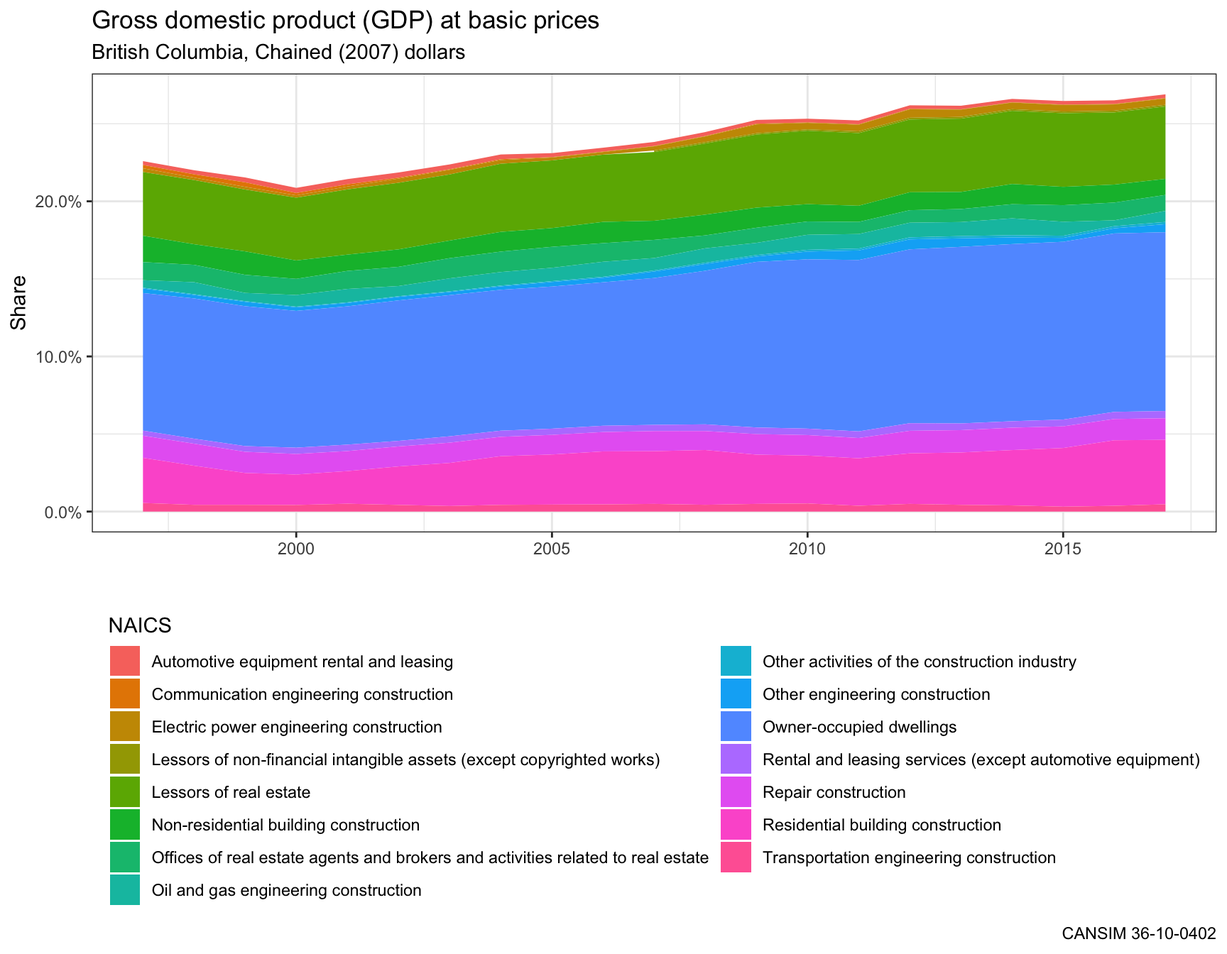
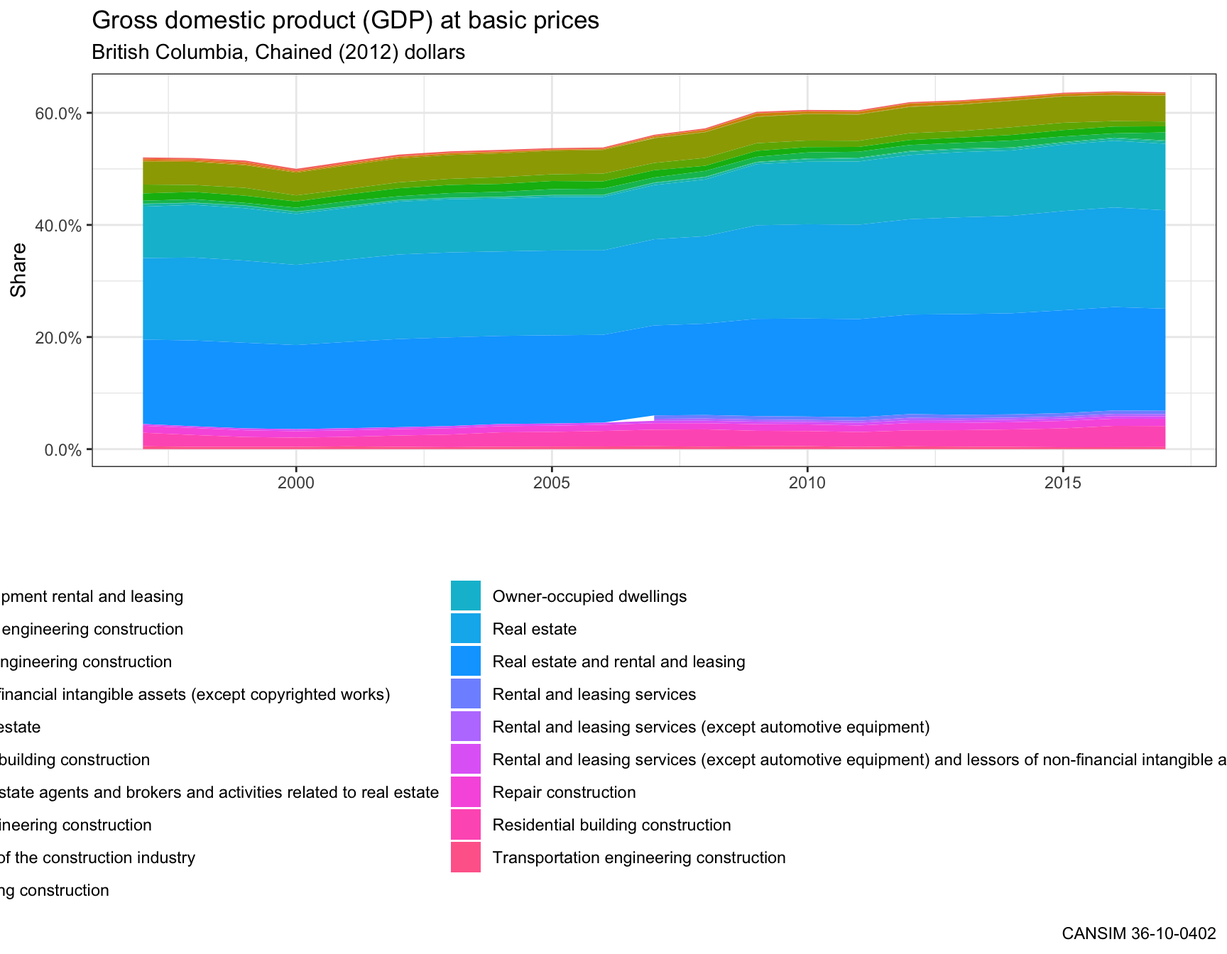
fix vignette to adapt to statcan switching base year for chained dollars

diff --git a/docs/articles/cansim.html b/docs/articles/cansim.html
@@ -97,7 +97,7 @@
     <div class="page-header toc-ignore">
       <h1>Getting started with the cansim package</h1>
             
-            <h4 class="date">2018-11-05</h4>
+            <h4 class="date">2018-11-15</h4>
       
       <small class="dont-index">Source: <a href="https://github.com/mountainMath/cansim/blob/master/vignettes/cansim.Rmd"><code>vignettes/cansim.Rmd</code></a></small>
       <div class="hidden name"><code>cansim.Rmd</code></div>
@@ -125,7 +125,7 @@
 <a href="#usage" class="anchor"></a>Usage</h3>
 <p>If you know the data table catalogue number you are interested in, use <code>get_cansim</code> to download the entire table.</p>
 <div class="sourceCode" id="cb2"><pre class="sourceCode r"><code class="sourceCode r"><a class="sourceLine" id="cb2-1" data-line-number="1">data &lt;-<span class="st"> </span><span class="kw"><a href="../reference/get_cansim.html">get_cansim</a></span>(<span class="st">"14-10-0293"</span>)</a>
-<a class="sourceLine" id="cb2-2" data-line-number="2"><span class="co">#&gt; Accessing CANSIM NDM product 14-10-0293</span></a>
+<a class="sourceLine" id="cb2-2" data-line-number="2"><span class="co">#&gt; Accessing CANSIM NDM product 14-10-0293 from Statistics Canada</span></a>
 <a class="sourceLine" id="cb2-3" data-line-number="3"><span class="co">#&gt; Parsing data</span></a>
 <a class="sourceLine" id="cb2-4" data-line-number="4"><span class="co">#&gt; Folding in metadata</span></a>
 <a class="sourceLine" id="cb2-5" data-line-number="5"><span class="kw">head</span>(data)</a>
@@ -156,7 +156,7 @@
 <a class="sourceLine" id="cb3-9" data-line-number="9"><span class="co">#&gt;     intersect, setdiff, setequal, union</span></a>
 <a class="sourceLine" id="cb3-10" data-line-number="10">data &lt;-<span class="st"> </span><span class="kw"><a href="../reference/get_cansim.html">get_cansim</a></span>(<span class="st">"14-10-0293"</span>) <span class="op">%&gt;%</span><span class="st"> </span></a>
 <a class="sourceLine" id="cb3-11" data-line-number="11"><span class="st">  </span>normalize_cansim_values</a>
-<a class="sourceLine" id="cb3-12" data-line-number="12"><span class="co">#&gt; Accessing CANSIM NDM product 14-10-0293</span></a>
+<a class="sourceLine" id="cb3-12" data-line-number="12"><span class="co">#&gt; Reading CANSIM NDM product 14-10-0293 from cache.</span></a>
 <a class="sourceLine" id="cb3-13" data-line-number="13"><span class="kw">head</span>(data)</a>
 <a class="sourceLine" id="cb3-14" data-line-number="14"><span class="co">#&gt; # A tibble: 6 x 20</span></a>
 <a class="sourceLine" id="cb3-15" data-line-number="15"><span class="co">#&gt;   REF_DATE GEO   DGUID `Labour force c… Statistics UOM   UOM_ID VECTOR</span></a>
@@ -189,26 +189,22 @@
 <a class="sourceLine" id="cb4-13" data-line-number="13"><span class="co">#&gt; Estimate, Standard error of estimate, Standard error of year-over-year change</span></a></code></pre></div>
 <p>When a table number is unknown, you can browse the available tables or search by survey name, keyword or title.</p>
 <div class="sourceCode" id="cb5"><pre class="sourceCode r"><code class="sourceCode r"><a class="sourceLine" id="cb5-1" data-line-number="1"><span class="kw"><a href="../reference/search_cansim_tables.html">search_cansim_tables</a></span>(<span class="st">"housing price indexes"</span>)</a>
-<a class="sourceLine" id="cb5-2" data-line-number="2"><span class="co">#&gt; Your CANSIM table overview data is 36 days old.</span></a>
-<a class="sourceLine" id="cb5-3" data-line-number="3"><span class="co">#&gt; Consider setting options(cache_path="your cache path")</span></a>
-<a class="sourceLine" id="cb5-4" data-line-number="4"><span class="co">#&gt; in your .Rprofile and refreshing the table via list_cansim_tables(refresh=TRUE).</span></a>
-<a class="sourceLine" id="cb5-5" data-line-number="5"><span class="co">#&gt; The table won't be able to refresh if options(cache_path="your cache path") is not set.</span></a>
-<a class="sourceLine" id="cb5-6" data-line-number="6"><span class="co">#&gt; # A tibble: 8 x 21</span></a>
-<a class="sourceLine" id="cb5-7" data-line-number="7"><span class="co">#&gt;   title title_en title_fr keywords_en keywords keywords_fr notes notes_en</span></a>
-<a class="sourceLine" id="cb5-8" data-line-number="8"><span class="co">#&gt;   &lt;chr&gt; &lt;chr&gt;    &lt;chr&gt;    &lt;chr&gt;       &lt;chr&gt;    &lt;chr&gt;       &lt;chr&gt; &lt;chr&gt;   </span></a>
-<a class="sourceLine" id="cb5-9" data-line-number="9"><span class="co">#&gt; 1 New … New hou… Indice … constructi… constru… constructi… &lt;p&gt;N… &lt;p&gt;New …</span></a>
-<a class="sourceLine" id="cb5-10" data-line-number="10"><span class="co">#&gt; 2 New … New hou… Indice … constructi… constru… constructi… &lt;p&gt;N… &lt;p&gt;New …</span></a>
-<a class="sourceLine" id="cb5-11" data-line-number="11"><span class="co">#&gt; 3 Non-… Non-res… Indice … constructi… constru… constructi… &lt;p&gt;A… &lt;p&gt;Arch…</span></a>
-<a class="sourceLine" id="cb5-12" data-line-number="12"><span class="co">#&gt; 4 Pric… Price i… Indices… constructi… constru… constructi… This… This ta…</span></a>
-<a class="sourceLine" id="cb5-13" data-line-number="13"><span class="co">#&gt; 5 Pric… Price i… Indices… constructi… constru… constructi… &lt;p&gt;T… &lt;p&gt;This…</span></a>
-<a class="sourceLine" id="cb5-14" data-line-number="14"><span class="co">#&gt; 6 New … New hou… Indices… constructi… constru… constructi… This… This ta…</span></a>
-<a class="sourceLine" id="cb5-15" data-line-number="15"><span class="co">#&gt; 7 New … New hou… Indices… constructi… constru… constructi… This… This ta…</span></a>
-<a class="sourceLine" id="cb5-16" data-line-number="16"><span class="co">#&gt; 8 New … New hou… Indice … constructi… constru… constructi… Mont… Monthly…</span></a>
-<a class="sourceLine" id="cb5-17" data-line-number="17"><span class="co">#&gt; # ... with 13 more variables: notes_fr &lt;chr&gt;, state &lt;chr&gt;, subject &lt;chr&gt;,</span></a>
-<a class="sourceLine" id="cb5-18" data-line-number="18"><span class="co">#&gt; #   date_published &lt;chr&gt;, frequency &lt;chr&gt;, revision_id &lt;chr&gt;,</span></a>
-<a class="sourceLine" id="cb5-19" data-line-number="19"><span class="co">#&gt; #   time_period_coverage_start &lt;chr&gt;, time_period_coverage_end &lt;chr&gt;,</span></a>
-<a class="sourceLine" id="cb5-20" data-line-number="20"><span class="co">#&gt; #   metadata_created &lt;chr&gt;, metadata_modified &lt;chr&gt;, url_en &lt;chr&gt;,</span></a>
-<a class="sourceLine" id="cb5-21" data-line-number="21"><span class="co">#&gt; #   url_fr &lt;chr&gt;, cansim_table_number &lt;chr&gt;</span></a></code></pre></div>
+<a class="sourceLine" id="cb5-2" data-line-number="2"><span class="co">#&gt; # A tibble: 8 x 21</span></a>
+<a class="sourceLine" id="cb5-3" data-line-number="3"><span class="co">#&gt;   title title_en title_fr keywords_en keywords keywords_fr notes notes_en</span></a>
+<a class="sourceLine" id="cb5-4" data-line-number="4"><span class="co">#&gt;   &lt;chr&gt; &lt;chr&gt;    &lt;chr&gt;    &lt;chr&gt;       &lt;chr&gt;    &lt;chr&gt;       &lt;chr&gt; &lt;chr&gt;   </span></a>
+<a class="sourceLine" id="cb5-5" data-line-number="5"><span class="co">#&gt; 1 New … New hou… Indice … constructi… constru… constructi… &lt;p&gt;N… &lt;p&gt;New …</span></a>
+<a class="sourceLine" id="cb5-6" data-line-number="6"><span class="co">#&gt; 2 New … New hou… Indice … constructi… constru… constructi… &lt;p&gt;N… &lt;p&gt;New …</span></a>
+<a class="sourceLine" id="cb5-7" data-line-number="7"><span class="co">#&gt; 3 Non-… Non-res… Indice … constructi… constru… constructi… &lt;p&gt;A… &lt;p&gt;Arch…</span></a>
+<a class="sourceLine" id="cb5-8" data-line-number="8"><span class="co">#&gt; 4 Pric… Price i… Indices… constructi… constru… constructi… This… This ta…</span></a>
+<a class="sourceLine" id="cb5-9" data-line-number="9"><span class="co">#&gt; 5 Pric… Price i… Indices… constructi… constru… constructi… &lt;p&gt;T… &lt;p&gt;This…</span></a>
+<a class="sourceLine" id="cb5-10" data-line-number="10"><span class="co">#&gt; 6 New … New hou… Indices… constructi… constru… constructi… This… This ta…</span></a>
+<a class="sourceLine" id="cb5-11" data-line-number="11"><span class="co">#&gt; 7 New … New hou… Indices… constructi… constru… constructi… This… This ta…</span></a>
+<a class="sourceLine" id="cb5-12" data-line-number="12"><span class="co">#&gt; 8 New … New hou… Indice … constructi… constru… constructi… Mont… Monthly…</span></a>
+<a class="sourceLine" id="cb5-13" data-line-number="13"><span class="co">#&gt; # ... with 13 more variables: notes_fr &lt;chr&gt;, state &lt;chr&gt;, subject &lt;chr&gt;,</span></a>
+<a class="sourceLine" id="cb5-14" data-line-number="14"><span class="co">#&gt; #   date_published &lt;chr&gt;, frequency &lt;chr&gt;, revision_id &lt;chr&gt;,</span></a>
+<a class="sourceLine" id="cb5-15" data-line-number="15"><span class="co">#&gt; #   time_period_coverage_start &lt;chr&gt;, time_period_coverage_end &lt;chr&gt;,</span></a>
+<a class="sourceLine" id="cb5-16" data-line-number="16"><span class="co">#&gt; #   metadata_created &lt;chr&gt;, metadata_modified &lt;chr&gt;, url_en &lt;chr&gt;,</span></a>
+<a class="sourceLine" id="cb5-17" data-line-number="17"><span class="co">#&gt; #   url_fr &lt;chr&gt;, cansim_table_number &lt;chr&gt;</span></a></code></pre></div>
 <p>Individual series in Statistics Canada data tables can also be accessed by using individual numbered vectors. This is especially useful when building reports using specific indicators. For convenience, the <code>cansim</code> package allows users to specify named vectors, where the <code>label</code> field will be added to the returned data frame containing the specified name for each vector.</p>
 <div class="sourceCode" id="cb6"><pre class="sourceCode r"><code class="sourceCode r"><a class="sourceLine" id="cb6-1" data-line-number="1"><span class="kw"><a href="../reference/get_cansim_vector.html">get_cansim_vector</a></span>(<span class="kw">c</span>(<span class="st">"Metro Van Apartment Construction Price Index"</span>=<span class="st">"v44176267"</span>,</a>
 <a class="sourceLine" id="cb6-2" data-line-number="2">                    <span class="st">"Metro Van CPI"</span>=<span class="st">"v41692930"</span>),</a>

diff --git a/docs/articles/listing_cansim_tables.html b/docs/articles/listing_cansim_tables.html
@@ -97,7 +97,7 @@
     <div class="page-header toc-ignore">
       <h1>Listing Statistics Canada data tables</h1>
             
-            <h4 class="date">2018-11-05</h4>
+            <h4 class="date">2018-11-15</h4>
       
       <small class="dont-index">Source: <a href="https://github.com/mountainMath/cansim/blob/master/vignettes/listing_cansim_tables.Rmd"><code>vignettes/listing_cansim_tables.Rmd</code></a></small>
       <div class="hidden name"><code>listing_cansim_tables.Rmd</code></div>
@@ -119,21 +119,17 @@
 <div class="sourceCode" id="cb1"><pre class="sourceCode r"><code class="sourceCode r"><a class="sourceLine" id="cb1-1" data-line-number="1"><span class="kw">library</span>(cansim)</a>
 <a class="sourceLine" id="cb1-2" data-line-number="2"></a>
 <a class="sourceLine" id="cb1-3" data-line-number="3"><span class="kw">names</span>(<span class="kw"><a href="../reference/list_cansim_tables.html">list_cansim_tables</a></span>())</a>
-<a class="sourceLine" id="cb1-4" data-line-number="4"><span class="co">#&gt; Your CANSIM table overview data is 36 days old.</span></a>
-<a class="sourceLine" id="cb1-5" data-line-number="5"><span class="co">#&gt; Consider setting options(cache_path="your cache path")</span></a>
-<a class="sourceLine" id="cb1-6" data-line-number="6"><span class="co">#&gt; in your .Rprofile and refreshing the table via list_cansim_tables(refresh=TRUE).</span></a>
-<a class="sourceLine" id="cb1-7" data-line-number="7"><span class="co">#&gt; The table won't be able to refresh if options(cache_path="your cache path") is not set.</span></a>
-<a class="sourceLine" id="cb1-8" data-line-number="8"><span class="co">#&gt;  [1] "title"                      "title_en"                  </span></a>
-<a class="sourceLine" id="cb1-9" data-line-number="9"><span class="co">#&gt;  [3] "title_fr"                   "keywords_en"               </span></a>
-<a class="sourceLine" id="cb1-10" data-line-number="10"><span class="co">#&gt;  [5] "keywords"                   "keywords_fr"               </span></a>
-<a class="sourceLine" id="cb1-11" data-line-number="11"><span class="co">#&gt;  [7] "notes"                      "notes_en"                  </span></a>
-<a class="sourceLine" id="cb1-12" data-line-number="12"><span class="co">#&gt;  [9] "notes_fr"                   "state"                     </span></a>
-<a class="sourceLine" id="cb1-13" data-line-number="13"><span class="co">#&gt; [11] "subject"                    "date_published"            </span></a>
-<a class="sourceLine" id="cb1-14" data-line-number="14"><span class="co">#&gt; [13] "frequency"                  "revision_id"               </span></a>
-<a class="sourceLine" id="cb1-15" data-line-number="15"><span class="co">#&gt; [15] "time_period_coverage_start" "time_period_coverage_end"  </span></a>
-<a class="sourceLine" id="cb1-16" data-line-number="16"><span class="co">#&gt; [17] "metadata_created"           "metadata_modified"         </span></a>
-<a class="sourceLine" id="cb1-17" data-line-number="17"><span class="co">#&gt; [19] "url_en"                     "url_fr"                    </span></a>
-<a class="sourceLine" id="cb1-18" data-line-number="18"><span class="co">#&gt; [21] "cansim_table_number"</span></a></code></pre></div>
+<a class="sourceLine" id="cb1-4" data-line-number="4"><span class="co">#&gt;  [1] "title"                      "title_en"                  </span></a>
+<a class="sourceLine" id="cb1-5" data-line-number="5"><span class="co">#&gt;  [3] "title_fr"                   "keywords_en"               </span></a>
+<a class="sourceLine" id="cb1-6" data-line-number="6"><span class="co">#&gt;  [5] "keywords"                   "keywords_fr"               </span></a>
+<a class="sourceLine" id="cb1-7" data-line-number="7"><span class="co">#&gt;  [7] "notes"                      "notes_en"                  </span></a>
+<a class="sourceLine" id="cb1-8" data-line-number="8"><span class="co">#&gt;  [9] "notes_fr"                   "state"                     </span></a>
+<a class="sourceLine" id="cb1-9" data-line-number="9"><span class="co">#&gt; [11] "subject"                    "date_published"            </span></a>
+<a class="sourceLine" id="cb1-10" data-line-number="10"><span class="co">#&gt; [13] "frequency"                  "revision_id"               </span></a>
+<a class="sourceLine" id="cb1-11" data-line-number="11"><span class="co">#&gt; [15] "time_period_coverage_start" "time_period_coverage_end"  </span></a>
+<a class="sourceLine" id="cb1-12" data-line-number="12"><span class="co">#&gt; [17] "metadata_created"           "metadata_modified"         </span></a>
+<a class="sourceLine" id="cb1-13" data-line-number="13"><span class="co">#&gt; [19] "url_en"                     "url_fr"                    </span></a>
+<a class="sourceLine" id="cb1-14" data-line-number="14"><span class="co">#&gt; [21] "cansim_table_number"</span></a></code></pre></div>
 <p>The appropriate table can be found by subsetting or filtering on the properties we want to use to find the appropriate tables.</p>
 <div class="sourceCode" id="cb2"><pre class="sourceCode r"><code class="sourceCode r"><a class="sourceLine" id="cb2-1" data-line-number="1"><span class="kw">library</span>(dplyr)</a>
 <a class="sourceLine" id="cb2-2" data-line-number="2"><span class="co">#&gt; </span></a>
@@ -148,15 +144,11 @@
 <a class="sourceLine" id="cb2-11" data-line-number="11"><span class="kw"><a href="../reference/list_cansim_tables.html">list_cansim_tables</a></span>() <span class="op">%&gt;%</span><span class="st"> </span></a>
 <a class="sourceLine" id="cb2-12" data-line-number="12"><span class="st">  </span><span class="kw"><a href="http://dplyr.tidyverse.org/reference/filter.html">filter</a></span>(<span class="kw">grepl</span>(<span class="st">"Labour force characteristics"</span>,title), <span class="kw">grepl</span>(<span class="st">"economic region"</span>,title)) <span class="op">%&gt;%</span><span class="st"> </span></a>
 <a class="sourceLine" id="cb2-13" data-line-number="13"><span class="st">  </span><span class="kw"><a href="http://dplyr.tidyverse.org/reference/select.html">select</a></span>(<span class="st">"cansim_table_number"</span>,<span class="st">"title"</span>)</a>
-<a class="sourceLine" id="cb2-14" data-line-number="14"><span class="co">#&gt; Your CANSIM table overview data is 36 days old.</span></a>
-<a class="sourceLine" id="cb2-15" data-line-number="15"><span class="co">#&gt; Consider setting options(cache_path="your cache path")</span></a>
-<a class="sourceLine" id="cb2-16" data-line-number="16"><span class="co">#&gt; in your .Rprofile and refreshing the table via list_cansim_tables(refresh=TRUE).</span></a>
-<a class="sourceLine" id="cb2-17" data-line-number="17"><span class="co">#&gt; The table won't be able to refresh if options(cache_path="your cache path") is not set.</span></a>
-<a class="sourceLine" id="cb2-18" data-line-number="18"><span class="co">#&gt; # A tibble: 2 x 2</span></a>
-<a class="sourceLine" id="cb2-19" data-line-number="19"><span class="co">#&gt;   cansim_table_number title                                               </span></a>
-<a class="sourceLine" id="cb2-20" data-line-number="20"><span class="co">#&gt;   &lt;chr&gt;               &lt;chr&gt;                                               </span></a>
-<a class="sourceLine" id="cb2-21" data-line-number="21"><span class="co">#&gt; 1 14-10-0293          Labour force characteristics by economic region, th…</span></a>
-<a class="sourceLine" id="cb2-22" data-line-number="22"><span class="co">#&gt; 2 14-10-0090          Labour force characteristics by province, territory…</span></a></code></pre></div>
+<a class="sourceLine" id="cb2-14" data-line-number="14"><span class="co">#&gt; # A tibble: 2 x 2</span></a>
+<a class="sourceLine" id="cb2-15" data-line-number="15"><span class="co">#&gt;   cansim_table_number title                                               </span></a>
+<a class="sourceLine" id="cb2-16" data-line-number="16"><span class="co">#&gt;   &lt;chr&gt;               &lt;chr&gt;                                               </span></a>
+<a class="sourceLine" id="cb2-17" data-line-number="17"><span class="co">#&gt; 1 14-10-0293          Labour force characteristics by economic region, th…</span></a>
+<a class="sourceLine" id="cb2-18" data-line-number="18"><span class="co">#&gt; 2 14-10-0090          Labour force characteristics by province, territory…</span></a></code></pre></div>
 <p>The search came up with two tables. In this example we are interested in the unemployment rate for 2015 onwards for the Lower Mainland, Vancouver Island, and Okanagan economic regions from the Labour Force Characteristics table. We use the <code>tidyr</code> package here to reshape data from a long format to a wider format.</p>
 <div class="sourceCode" id="cb3"><pre class="sourceCode r"><code class="sourceCode r"><a class="sourceLine" id="cb3-1" data-line-number="1"><span class="kw">library</span>(tidyr)</a>
 <a class="sourceLine" id="cb3-2" data-line-number="2"></a>
@@ -169,7 +161,7 @@
 <a class="sourceLine" id="cb3-9" data-line-number="9">         <span class="st">`</span><span class="dt">Labour force characteristics</span><span class="st">`</span><span class="op">==</span><span class="st">"Unemployment rate"</span>) <span class="op">%&gt;%</span></a>
 <a class="sourceLine" id="cb3-10" data-line-number="10"><span class="st">  </span><span class="kw"><a href="http://dplyr.tidyverse.org/reference/select.html">select</a></span>(Date, GEO, Statistics, VALUE) <span class="op">%&gt;%</span></a>
 <a class="sourceLine" id="cb3-11" data-line-number="11"><span class="st">  </span><span class="kw"><a href="https://tidyr.tidyverse.org/reference/spread.html">spread</a></span>(<span class="dt">key=</span><span class="st">"Statistics"</span>, <span class="dt">value=</span>VALUE)</a>
-<a class="sourceLine" id="cb3-12" data-line-number="12"><span class="co">#&gt; Accessing CANSIM NDM product 14-10-0293</span></a>
+<a class="sourceLine" id="cb3-12" data-line-number="12"><span class="co">#&gt; Accessing CANSIM NDM product 14-10-0293 from Statistics Canada</span></a>
 <a class="sourceLine" id="cb3-13" data-line-number="13"><span class="co">#&gt; Parsing data</span></a>
 <a class="sourceLine" id="cb3-14" data-line-number="14"><span class="co">#&gt; Folding in metadata</span></a></code></pre></div>
 <p>We can visualize then results with <code>ggplot2</code>.</p>

diff --git a/docs/articles/working_with_hierarchies.html b/docs/articles/working_with_hierarchies.html
@@ -97,7 +97,7 @@
     <div class="page-header toc-ignore">
       <h1>Working with Statistics Canada data table object hierarchies</h1>
             
-            <h4 class="date">2018-11-05</h4>
+            <h4 class="date">2018-11-15</h4>
       
       <small class="dont-index">Source: <a href="https://github.com/mountainMath/cansim/blob/master/vignettes/working_with_hierarchies.Rmd"><code>vignettes/working_with_hierarchies.Rmd</code></a></small>
       <div class="hidden name"><code>working_with_hierarchies.Rmd</code></div>
@@ -118,7 +118,7 @@
 <a class="sourceLine" id="cb1-5" data-line-number="5"></a>
 <a class="sourceLine" id="cb1-6" data-line-number="6"><span class="co"># get table overview</span></a>
 <a class="sourceLine" id="cb1-7" data-line-number="7"><span class="kw"><a href="../reference/get_cansim_table_overview.html">get_cansim_table_overview</a></span>(table_id)</a>
-<a class="sourceLine" id="cb1-8" data-line-number="8"><span class="co">#&gt; Accessing CANSIM NDM product 36-10-0402</span></a>
+<a class="sourceLine" id="cb1-8" data-line-number="8"><span class="co">#&gt; Accessing CANSIM NDM product 36-10-0402 from Statistics Canada</span></a>
 <a class="sourceLine" id="cb1-9" data-line-number="9"><span class="co">#&gt; Parsing data</span></a>
 <a class="sourceLine" id="cb1-10" data-line-number="10"><span class="co">#&gt; Folding in metadata</span></a>
 <a class="sourceLine" id="cb1-11" data-line-number="11"><span class="co">#&gt; Gross domestic product (GDP) at basic prices, by industry, provinces and territories</span></a>
@@ -129,9 +129,9 @@
 <a class="sourceLine" id="cb1-16" data-line-number="16"><span class="co">#&gt; Newfoundland and Labrador, Prince Edward Island, Nova Scotia, New Brunswick, Quebec, Ontario, Manitoba, Saskatchewan, Alberta, British Columbia, ...</span></a>
 <a class="sourceLine" id="cb1-17" data-line-number="17"><span class="co">#&gt; </span></a>
 <a class="sourceLine" id="cb1-18" data-line-number="18"><span class="co">#&gt; Column Value (3)</span></a>
-<a class="sourceLine" id="cb1-19" data-line-number="19"><span class="co">#&gt; Current dollars, Chained (2007) dollars, Contributions to percent change</span></a>
+<a class="sourceLine" id="cb1-19" data-line-number="19"><span class="co">#&gt; Current dollars, Chained (2012) dollars, Contributions to percent change</span></a>
 <a class="sourceLine" id="cb1-20" data-line-number="20"><span class="co">#&gt; </span></a>
-<a class="sourceLine" id="cb1-21" data-line-number="21"><span class="co">#&gt; Column North American Industry Classification System (NAICS) (307)</span></a>
+<a class="sourceLine" id="cb1-21" data-line-number="21"><span class="co">#&gt; Column North American Industry Classification System (NAICS) (320)</span></a>
 <a class="sourceLine" id="cb1-22" data-line-number="22"><span class="co">#&gt; All industries, Goods-producing industries, Service-producing industries, Industrial production, Non-durable manufacturing industries, Durable manufacturing industries, Information and communication technology sector, Information and communication technology, manufacturing, Information and communication technology, services, Energy sector, ...</span></a></code></pre></div>
 </div>
 <div id="accessing-table-data" class="section level3">
@@ -149,9 +149,9 @@
 <a class="sourceLine" id="cb2-9" data-line-number="9"><span class="co">#&gt;     intersect, setdiff, setequal, union</span></a>
 <a class="sourceLine" id="cb2-10" data-line-number="10"></a>
 <a class="sourceLine" id="cb2-11" data-line-number="11">data &lt;-<span class="st"> </span><span class="kw"><a href="../reference/get_cansim.html">get_cansim</a></span>(table_id) </a>
-<a class="sourceLine" id="cb2-12" data-line-number="12"><span class="co">#&gt; Accessing CANSIM NDM product 36-10-0402</span></a>
+<a class="sourceLine" id="cb2-12" data-line-number="12"><span class="co">#&gt; Reading CANSIM NDM product 36-10-0402 from cache.</span></a>
 <a class="sourceLine" id="cb2-13" data-line-number="13"></a>
-<a class="sourceLine" id="cb2-14" data-line-number="14">selected_value =<span class="st"> "Chained (2007) dollars"</span></a>
+<a class="sourceLine" id="cb2-14" data-line-number="14">selected_value =<span class="st"> </span>data<span class="op">$</span>Value[<span class="kw">grepl</span>(<span class="st">"Chained"</span>,data<span class="op">$</span>Value)] <span class="op">%&gt;%</span><span class="st"> </span><span class="kw">unique</span>()</a>
 <a class="sourceLine" id="cb2-15" data-line-number="15">data &lt;-<span class="st"> </span>data <span class="op">%&gt;%</span><span class="st"> </span></a>
 <a class="sourceLine" id="cb2-16" data-line-number="16"><span class="st">  </span><span class="kw"><a href="http://dplyr.tidyverse.org/reference/filter.html">filter</a></span>(Value <span class="op">==</span><span class="st"> </span>selected_value)</a></code></pre></div>
 </div>
@@ -195,7 +195,7 @@
 <a class="sourceLine" id="cb5-5" data-line-number="5"></a>
 <a class="sourceLine" id="cb5-6" data-line-number="6"><span class="co"># How many are NAICS categories left? </span></a>
 <a class="sourceLine" id="cb5-7" data-line-number="7">n &lt;-<span class="st"> </span><span class="kw">length</span>(cut_data<span class="op">$</span><span class="st">`</span><span class="dt">North American Industry Classification System (NAICS)</span><span class="st">`</span> <span class="op">%&gt;%</span><span class="st"> </span>unique)</a></code></pre></div>
-<p>There are still 20 level 1 categories, too many to sensibly visualize at the same time. We can use <code>dplyr</code> functions to identify the top categories and group the rest so that we can have a plot that is easier to understand.</p>
+<p>There are still 28 level 1 categories, too many to sensibly visualize at the same time. We can use <code>dplyr</code> functions to identify the top categories and group the rest so that we can have a plot that is easier to understand.</p>
 <div class="sourceCode" id="cb6"><pre class="sourceCode r"><code class="sourceCode r"><a class="sourceLine" id="cb6-1" data-line-number="1"><span class="co"># Specify which regions and period we want to look at </span></a>
 <a class="sourceLine" id="cb6-2" data-line-number="2">regions =<span class="st"> "British Columbia"</span></a>
 <a class="sourceLine" id="cb6-3" data-line-number="3">period =<span class="st"> "2017-01-01"</span></a>

diff --git a/docs/articles/retrieving_cansim_vectors.html b/docs/articles/retrieving_cansim_vectors.html
@@ -97,7 +97,7 @@
     <div class="page-header toc-ignore">
       <h1>Retrieving individual Statistics Canada vectors</h1>
             
-            <h4 class="date">2018-11-05</h4>
+            <h4 class="date">2018-11-15</h4>
       
       <small class="dont-index">Source: <a href="https://github.com/mountainMath/cansim/blob/master/vignettes/retrieving_cansim_vectors.Rmd"><code>vignettes/retrieving_cansim_vectors.Rmd</code></a></small>
       <div class="hidden name"><code>retrieving_cansim_vectors.Rmd</code></div>
